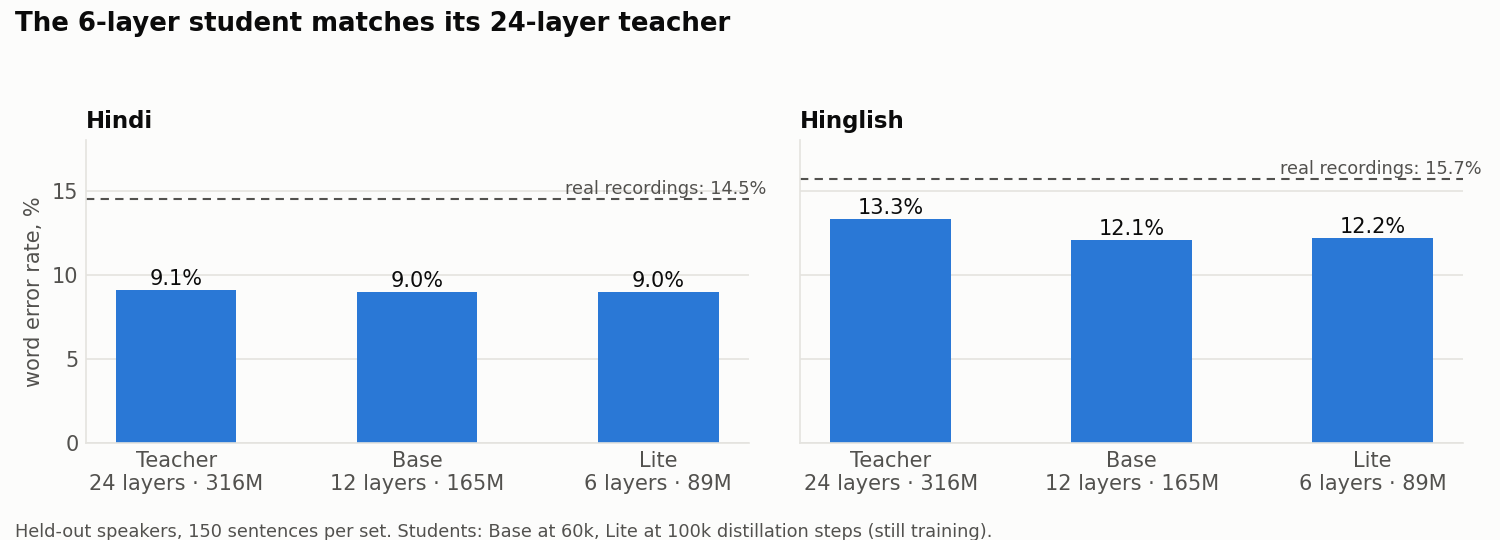
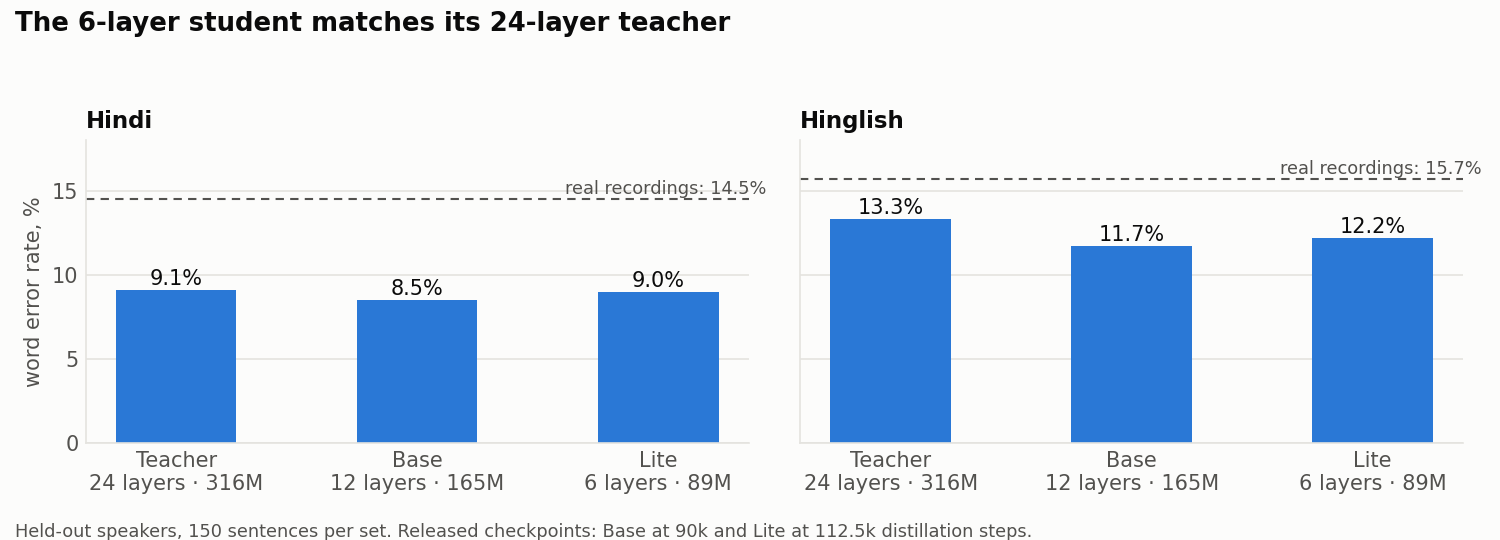
Final student results (200k runs complete); released checkpoints kept; similarity-metric caveat from the first human listening test

Changed region(s): [[0.2453, 0.9481, 0.7053, 1.0], [0.7053, 0.3852, 0.7973, 0.4741], [0.2147, 0.5037, 0.3373, 0.563]]

diff --git a/docs/index.html b/docs/index.html
@@ -117,13 +117,14 @@
     <h2>How good is it?</h2>
     <p class="sub">Twenty speakers the models never trained on, 150 Hindi and 150 Hinglish sentences, voice prompt taken
       from a different utterance. Word error rate is measured by AI4Bharat's IndicConformer. The same recogniser scores
-      14.5% and 15.7% on the real recordings of these sentences, so 9–13% means "as clear as this judge can tell".</p>
+      14.5% and 15.7% on the real recordings of these sentences, so 9–13% means "as clear as this judge can tell". Speaker similarity is a coarse number: the one clone a human has
+      rated so far ("70% there, not exact") scores 0.95, where the real speaker scores 0.99 against their own recording.</p>
     <div class="tablewrap"><table>
       <thead><tr><th>Model</th><th class="num">Parameters</th><th class="num">Hindi WER</th><th class="num">Hinglish WER</th><th class="num">Speaker similarity</th></tr></thead>
       <tbody>
         <tr><td>Teacher, 24 layers</td><td class="num">316 M</td><td class="num">9.1%</td><td class="num">13.3%</td><td class="num">0.91</td></tr>
-        <tr><td>Base, 12 layers <span style="color:var(--ink-3)">(60k steps, still training)</span></td><td class="num">165 M</td><td class="num">9.0%</td><td class="num">12.1%</td><td class="num">0.91</td></tr>
-        <tr><td>Lite, 6 layers <span style="color:var(--ink-3)">(100k steps, still training)</span></td><td class="num">89 M</td><td class="num">9.0%</td><td class="num">12.2%</td><td class="num">0.91</td></tr>
+        <tr><td>Base, 12 layers</td><td class="num">165 M</td><td class="num">8.5%</td><td class="num">11.7%</td><td class="num">0.92</td></tr>
+        <tr><td>Lite, 6 layers</td><td class="num">89 M</td><td class="num">9.0%</td><td class="num">12.2%</td><td class="num">0.92</td></tr>
       </tbody></table></div>
     <figure><img src="figures/wer_vs_steps.png" alt="Line charts of word error rate against training steps for Hindi and Hinglish. The from-scratch teacher is best near 100 thousand steps and degrades to 14 and 19 percent by 400 thousand." loading="lazy">
       <figcaption>Training longer made the teacher worse on our noisy corpus, so we release the 115k-step checkpoint.

diff --git a/docs/figures/make_figures.py b/docs/figures/make_figures.py
@@ -37,7 +37,7 @@ fig.tight_layout(rect=(0, 0, 1, 0.94)); fig.savefig("docs/figures/wer_vs_steps.p
 
 # 2. Model family ---------------------------------------------------------------------------------------------------
 models = ["Teacher\n24 layers · 316M", "Base\n12 layers · 165M", "Lite\n6 layers · 89M"]
-wer = {"Hindi": [9.1, 9.0, 9.0], "Hinglish": [13.3, 12.1, 12.2]}
+wer = {"Hindi": [9.1, 8.5, 9.0], "Hinglish": [13.3, 11.7, 12.2]}
 fig, axes = plt.subplots(1, 2, figsize=(10, 3.6), sharey=True)
 for ax, lang in zip(axes, ("Hindi", "Hinglish")):
     style(ax)
@@ -49,7 +49,7 @@ for ax, lang in zip(axes, ("Hindi", "Hinglish")):
     ax.set_title(lang, loc="left", color=INK, fontsize=11, fontweight="bold"); ax.set_ylim(0, 18)
 axes[0].set_ylabel("word error rate, %")
 fig.suptitle("The 6-layer student matches its 24-layer teacher", x=0.01, ha="left", color=INK, fontsize=12.5, fontweight="bold")
-fig.text(0.01, 0.005, "Held-out speakers, 150 sentences per set. Students: Base at 60k, Lite at 100k distillation steps (still training).",
+fig.text(0.01, 0.005, "Held-out speakers, 150 sentences per set. Released checkpoints: Base at 90k and Lite at 112.5k distillation steps.",
          color=MUTED, fontsize=8.5)
 fig.tight_layout(rect=(0, 0.04, 1, 0.93)); fig.savefig("docs/figures/model_family.png", dpi=150); plt.close(fig)
 

diff --git a/notes/experiments.md b/notes/experiments.md
@@ -430,3 +430,72 @@ transcribed before publishing: students are near-exact on Hindi, numbers and hea
 
 Release staging: box `~/hindi-tts/hf_release/{teacher-24l,base-12l,lite-6l}` (FlowLM-only + `assemble.py`); local
 repo `~/Workspace/jugnu-pocket-tts` (committed locally, not pushed) with README, NOTICE, figures and `docs/` page.
+
+## E8 — first human listening result: a real unseen voice (2026-09-21, local only)
+
+A colleague read the cloning script into a phone (33 s, quiet: mean −34 dB; level-normalised and trimmed before use;
+reference UTMOS 1.42). All three models cloned it from the first 15 s over the 9 demo sentences. Nothing published.
+
+- Automatic: Hindi / Hinglish transcripts essentially exact in all three models (failures: `reschedule` in every
+  model; one `यहाँ हूँ`→`रहा हूं` in Base). Generated UTMOS 2.6–2.7. Clips are slow (5–7 s vs 3–4 s with LibriVox
+  voices): the model copied the careful reading pace.
+- **Human verdict (project owner): "70 percent there, but did not exactly clone it."**
+- Metric check against 13 s of the same recording the model never saw (wavlm-base-plus-sv): real-vs-real ceiling
+  **0.987**; clones **0.92–0.955**. Prompt length matters a little: first 5 s 0.924 → 15 s 0.950 → 20 s 0.955 (Lite,
+  temp 0.3), and worst-case clips improve more (min 0.81 → 0.92). Temperature 0.3 vs 0.7: no consistent effect.
+  Teacher and Lite are equally close.
+
+Reading: the similarity metric saturates — a clone a human hears as "70%" scores 0.95 where the true speaker scores
+0.987, so our benchmark's 0.91–0.92 must not be read as "92% of the way to the voice". The gap to identity is where
+v0 is weakest and the metric is least sensitive: fine timbre and prosody, limited by (a) the codec's loss on Indian
+speech, (b) 16 kHz noisy training audio, (c) a short, noisy prompt, (d) 115k steps on 647 h vs upstream's
+multi-thousand-hour corpora. Longer prompts help modestly; nothing at inference closes the gap.
+
+### E7 — Base 12L at 100k distillation steps
+
+| Set | IC WER | IC CER | Speaker sim | UTMOS | silent / no_eos |
+| --- | --- | --- | --- | --- | --- |
+| Hindi | 8.5% | 2.9% | 0.918 | 2.55 | 0 / 0 |
+| Hinglish | 11.7% | 4.9% | 0.911 | 2.41 | 0 / 0 |
+
+Best numbers of any model so far on both sets (teacher 9.1 / 13.3, Lite@100k 9.0 / 12.2), though the margins are
+inside the ±1 pt noise at n=150. First sign that the 12-layer Base buys something over Lite.
+
+### E7 — Lite 6L at 150k distillation steps
+
+| Set | IC WER | IC CER | Speaker sim | UTMOS | silent / no_eos |
+| --- | --- | --- | --- | --- | --- |
+| Hindi | 9.1% | 3.3% | 0.920 | 2.55 | 0 / 0 |
+| Hinglish | 13.1% | 6.6% | 0.906 | 2.41 | 0 / 0 |
+
+Lite by step (Hindi / Hinglish IC WER): 50k 8.4 / 12.1 · 100k 9.0 / 12.2 · 150k 9.1 / 13.1. Still at teacher level
+(9.1 / 13.3) but not improving with more distillation; Hinglish +0.9 pt since 100k is within noise but the direction
+matches what the teacher did with longer training. Choose the released Lite checkpoint by benchmark, not by step.
+
+### E7 — Base 12L at 150k distillation steps
+
+| Set | IC WER | IC CER | Speaker sim | UTMOS | silent / no_eos |
+| --- | --- | --- | --- | --- | --- |
+| Hindi | 9.1% | 3.5% | 0.920 | 2.52 | 0 / 0 |
+| Hinglish | 13.9% | 6.6% | 0.908 | 2.39 | 0 / 0 |
+
+Base by step (Hindi / Hinglish IC WER): 60k 9.0 / 12.1 · 100k 8.5 / 11.7 · 150k 9.1 / 13.9. Same shape as Lite
+(50k 8.4 / 12.1 · 100k 9.0 / 12.2 · 150k 9.1 / 13.1) and as the teacher: on this data the best checkpoint is early
+(~50–100k distillation steps) and Hinglish drifts up by 1–2 pts afterwards. The published checkpoints (Base 90k,
+Lite 112.5k) sit in the good region; the 200k weights will only replace them if they benchmark better.
+Lesson for v1: distill for ~100k steps (or early-stop on the benchmark) and keep every 25k checkpoint.
+
+### E7 final — both students reached 200k (Lite 18:49 UTC, Base 23:13 UTC, 21 Sep 2026)
+
+| Model | Hindi IC WER / CER | Hinglish IC WER / CER | Speaker sim (Hi / Mix) | UTMOS (Hi / Mix) |
+| --- | --- | --- | --- | --- |
+| Lite 6L @ 200k | 9.0% / 3.5% | 12.1% / 5.7% | 0.920 / 0.914 | 2.51 / 2.39 |
+| Lite 6L @ 112.5k (published; benchmarked at 100k) | 9.0% / 3.2% | 12.2% / 5.2% | 0.916 / 0.913 | 2.54 / 2.39 |
+| Base 12L @ 200k | 9.2% / 3.5% | 12.6% / 5.8% | 0.917 / 0.913 | 2.54 / 2.40 |
+| Base 12L @ 90k (published; benchmarked at 100k) | 8.5% / 2.9% | 11.7% / 4.9% | 0.918 / 0.911 | 2.55 / 2.41 |
+
+Full trajectories (Hindi / Hinglish IC WER): Lite 50k 8.4/12.1 · 100k 9.0/12.2 · 150k 9.1/13.1 · 200k 9.0/12.1;
+Base 60k 9.0/12.1 · 100k 8.5/11.7 · 150k 9.1/13.9 · 200k 9.2/12.6. Lite@200k ties the published checkpoint; Base@200k
+is slightly behind its published 90k (same early-peak pattern as the teacher). **Published weights kept** (decision:
+replace only on a better score). 200k checkpoints archived in `final_v0/{lite6,base12}_00200000.pt`. Both runs: one
+attempt, no restarts. GPUs released 23:13 UTC.

diff --git a/README.md b/README.md
@@ -30,14 +30,22 @@ Benchmark: 20 held-out speakers never seen in training; the voice prompt is 5 s 
 same speaker; 150 Hindi + 150 Hinglish sentences; word error rate from IndicConformer-600M.
 
 ![The 6-layer student matches its 24-layer teacher](docs/figures/model_family.png)
-*The students match the teacher. The dashed line is the same ASR judge on the real recordings of these sentences —
+*The students match the teacher; the 12-layer Base has the best numbers of the three. The dashed line is the same ASR judge on the real recordings of these sentences —
 our clean synthetic speech is easier for it than noisy field audio, so read 9–14% as "at the judge's floor".*
 
 | Model | Hindi WER / CER | Hinglish WER / CER | Speaker similarity |
 | --- | --- | --- | --- |
 | Teacher 24L (115k steps, cfg 2.0) | 9.1% / 3.3% | 13.3% / 6.7% | 0.91 |
-| Base 12L (benchmarked at 60k distillation steps, still training) | 9.0% / 3.2% | 12.1% / 5.5% | 0.91 |
-| Lite 6L (benchmarked at 100k distillation steps, still training) | 9.0% / 3.2% | 12.2% / 5.2% | 0.91 |
+| Base 12L (released: 90k distillation steps) | 8.5% / 2.9% | 11.7% / 4.9% | 0.92 |
+| Lite 6L (released: 112.5k distillation steps) | 9.0% / 3.2% | 12.2% / 5.2% | 0.92 |
+| Base 12L at the end of its 200k run (not released) | 9.2% / 3.5% | 12.6% / 5.8% | 0.92 |
+| Lite 6L at the end of its 200k run (not released) | 9.0% / 3.5% | 12.1% / 5.7% | 0.92 |
+
+**What speaker similarity does and does not say.** The one human listening test so far — a colleague's voice,
+never in training, cloned from a 15 s phone recording — was rated *"70% there, but not an exact clone"*. That clone
+scores 0.95 on the same similarity metric, while the real speaker scores 0.987 against their own recording. The
+metric compresses exactly the range a listener cares about, so read 0.92 as "recognisably the right kind of voice",
+not as 92% of the way to the speaker. Voice identity is where v0 is weakest.
 
 **Not yet measured:** English WER, cross-language cloning at scale, long text / names / numbers, latency and CPU
 real-time factor, and any human listening test. Every number here comes from an automatic judge.
@@ -94,7 +102,7 @@ flowchart LR
 | Effective batch | 64 utterances (16 × 2 GPUs × 2 accumulation) | 64 (32 × 1 GPU × 2) | 64 (32 × 1 GPU × 2) |
 | Conditioning dropout (text / voice) | 0.2 / 0.2 | none | none |
 | Weight EMA | 0.999 | 0.9999 | 0.9999 |
-| Steps | 400k run; **115k released** | 200k planned (90k in this release) | 200k planned (112.5k in this release) |
+| Steps | 400k run; **115k released** | 200k run; **90k released** (best benchmark) | 200k run; **112.5k released** (best benchmark; 200k ties) |
 | Speed on RTX PRO 4500 Blackwell 32 GB | ~3.0 steps/s on 2 GPUs | ~2.5 steps/s on 1 GPU | ~3.2 steps/s on 1 GPU |
 | Wall-clock | ~11 h to 115k (~37 h to 400k) | ~22 h to 200k | ~17 h to 200k |
 | CPU speed (16 threads, standard runtime) | — | 1.5× real time | 3.3× real time |

diff --git a/release/MODEL_CARD.md b/release/MODEL_CARD.md
@@ -104,11 +104,17 @@ similarity is WavLM-base-plus-sv cosine (English-trained, unvalidated on Hindi).
 | Model | Hindi WER / CER | Hinglish WER / CER | Speaker sim | UTMOS (noisy prompts) |
 | --- | --- | --- | --- | --- |
 | Teacher 24L (115k steps, cfg 2.0) | 9.1% / 3.3% | 13.3% / 6.7% | 0.91 | 2.5 / 2.3 |
-| Base 12L (90k distillation steps; benchmarked at 60k) | 9.0% / 3.2% | 12.1% / 5.5% | 0.91 | 2.6 / 2.4 |
-| Lite 6L (112.5k distillation steps; benchmarked at 100k) | 9.0% / 3.2% | 12.2% / 5.2% | 0.91 | 2.5 / 2.4 |
+| Base 12L (90k distillation steps) | 8.5% / 2.9% | 11.7% / 4.9% | 0.92 | 2.6 / 2.4 |
+| Lite 6L (112.5k distillation steps) | 9.0% / 3.2% | 12.2% / 5.2% | 0.92 | 2.5 / 2.4 |
 
-Both students are still training to 200k steps; final weights will replace these. On a 16-thread CPU in the standard
-runtime, Lite runs at 3.3× real time and Base at 1.5×.
+Both students were distilled for 200k steps; the released checkpoints are the ones that benchmarked best (the 200k
+weights tie or score slightly lower — every model in this project peaked early on this noisy corpus). On 16 threads
+of a server CPU in the standard runtime, Lite runs at 3.3× real time and Base at 1.5×.
+
+**On the similarity number:** the one human listening test so far (a colleague's voice, never in training, cloned
+from a 15 s phone recording) was rated "70% there, but not an exact clone". That clone scores 0.95 on this metric
+while the real speaker scores 0.987 against their own recording, so 0.92 means "recognisably the right kind of
+voice", not 92% of the way to the speaker. Voice identity is v0's weakest point.
 
 Not yet measured: English WER, cross-language cloning at scale, long text / names / numbers, latency and CPU
 real-time factor, any human listening test.
@@ -140,7 +146,7 @@ real-time factor, any human listening test.
 | Effective batch | 64 utterances (16 × 2 GPUs × 2 accumulation) | 64 (32 × 1 GPU × 2) | 64 (32 × 1 GPU × 2) |
 | Conditioning dropout (text / voice) | 0.2 / 0.2 | none | none |
 | Weight EMA | 0.999 | 0.9999 | 0.9999 |
-| Steps | 400k run; **115k released** | 200k planned (90k in this release) | 200k planned (112.5k in this release) |
+| Steps | 400k run; **115k released** | 200k run; **90k released** | 200k run; **112.5k released** |
 | Speed on RTX PRO 4500 Blackwell 32 GB | ~3.0 steps/s on 2 GPUs | ~2.5 steps/s on 1 GPU | ~3.2 steps/s on 1 GPU |
 | Wall-clock | ~11 h to 115k (~37 h to 400k) | ~22 h to 200k | ~17 h to 200k |
 | CPU speed (16 threads, standard runtime) | — | 1.5× real time | 3.3× real time |

diff --git a/notes/roadmap.md b/notes/roadmap.md
@@ -6,9 +6,9 @@ Living list of what comes after the running work. Plan: [plan.md](plan.md) · de
 ## Now — v0 family on the frozen Kyutai codec (in progress)
 
 - [x] Arm A `scratch_v0` ran to 400k (best at ~100–115k); Arm B `ftlang_v0` stopped at 115k; benchmarked every 25k steps.
-- [x] Teacher picked (115k scratch checkpoint, D21); Base (12L) and Lite (6L) distilling to 200k; benchmark all three on quality, cloning, latency/memory.
+- [x] Teacher picked (115k scratch checkpoint, D21); Base (12L) and Lite (6L) distilled to 200k; benchmark all three on quality, cloning, latency/memory.
 - [ ] Remaining plan §8 tests: cross-language cloning, long text / names / numbers, 5 s vs 10 s references, Lite on CPU.
-- [ ] Human listening pass on the three preset voices (male, female, kid).
+- [x] First human listening result: an unseen colleague's voice, "70% there, not an exact clone" (E8). Full listening pass still open.
 
 ## Published 2026-09-21 — v0 release
 
@@ -27,7 +27,7 @@ samples, roadmap, license. **Only after the results are out** (final benchmarks 
       whether to publish cloning-capable checkpoints at all vs preset-only voice states; re-read the accepted
       `kyutai/pocket-tts` terms for redistribution/use conditions; commit attribution rule for the public repo.
 - [x] Python API `jugnu_tts` (clone / speak / stream / save voices), pip-installable from the repo.
-- [ ] Replace the student weights with the final 200k checkpoints; re-benchmark; refresh page samples and tables.
+- [x] Students finished 200k; benchmarked; published 90k / 112.5k checkpoints kept (D29); tables updated.
 - [ ] Never push: dataset audio, Kyutai's gated weights, HF tokens, box address/keys.
 
 ## Next — own codec (deferred until v0 training completes; user decision 2026-09-19)

diff --git a/notes/decisions.md b/notes/decisions.md
@@ -172,3 +172,9 @@ standard PyPI `pocket-tts` runtime (tested against 3.1.0). Verified from a fresh
 speech in 1.3 s, first streamed chunk in 0.10 s, exact IndicConformer transcript. That fresh-install test caught one
 bug (wav writing imported `sphn`, which is not a PyPI `pocket-tts` dependency → now uses the standard library).
 Documented in README, the HF model card and the demo page.
+
+**D29. (2026-09-22) Published student weights stay at Base 90k / Lite 112.5k.** The 200k checkpoints benchmark no
+better (Lite tie; Base −0.7 / −0.9 pts), consistent with every model in this project peaking early on this corpus.
+Model card, README and demo page updated with the final trajectories and with the similarity-metric caveat from E8
+(a clone a listener rated "70% there" scores 0.95 where the real speaker scores 0.987). v1 recipe note: distill
+~100k steps or early-stop on the benchmark; keep every 25k checkpoint.
